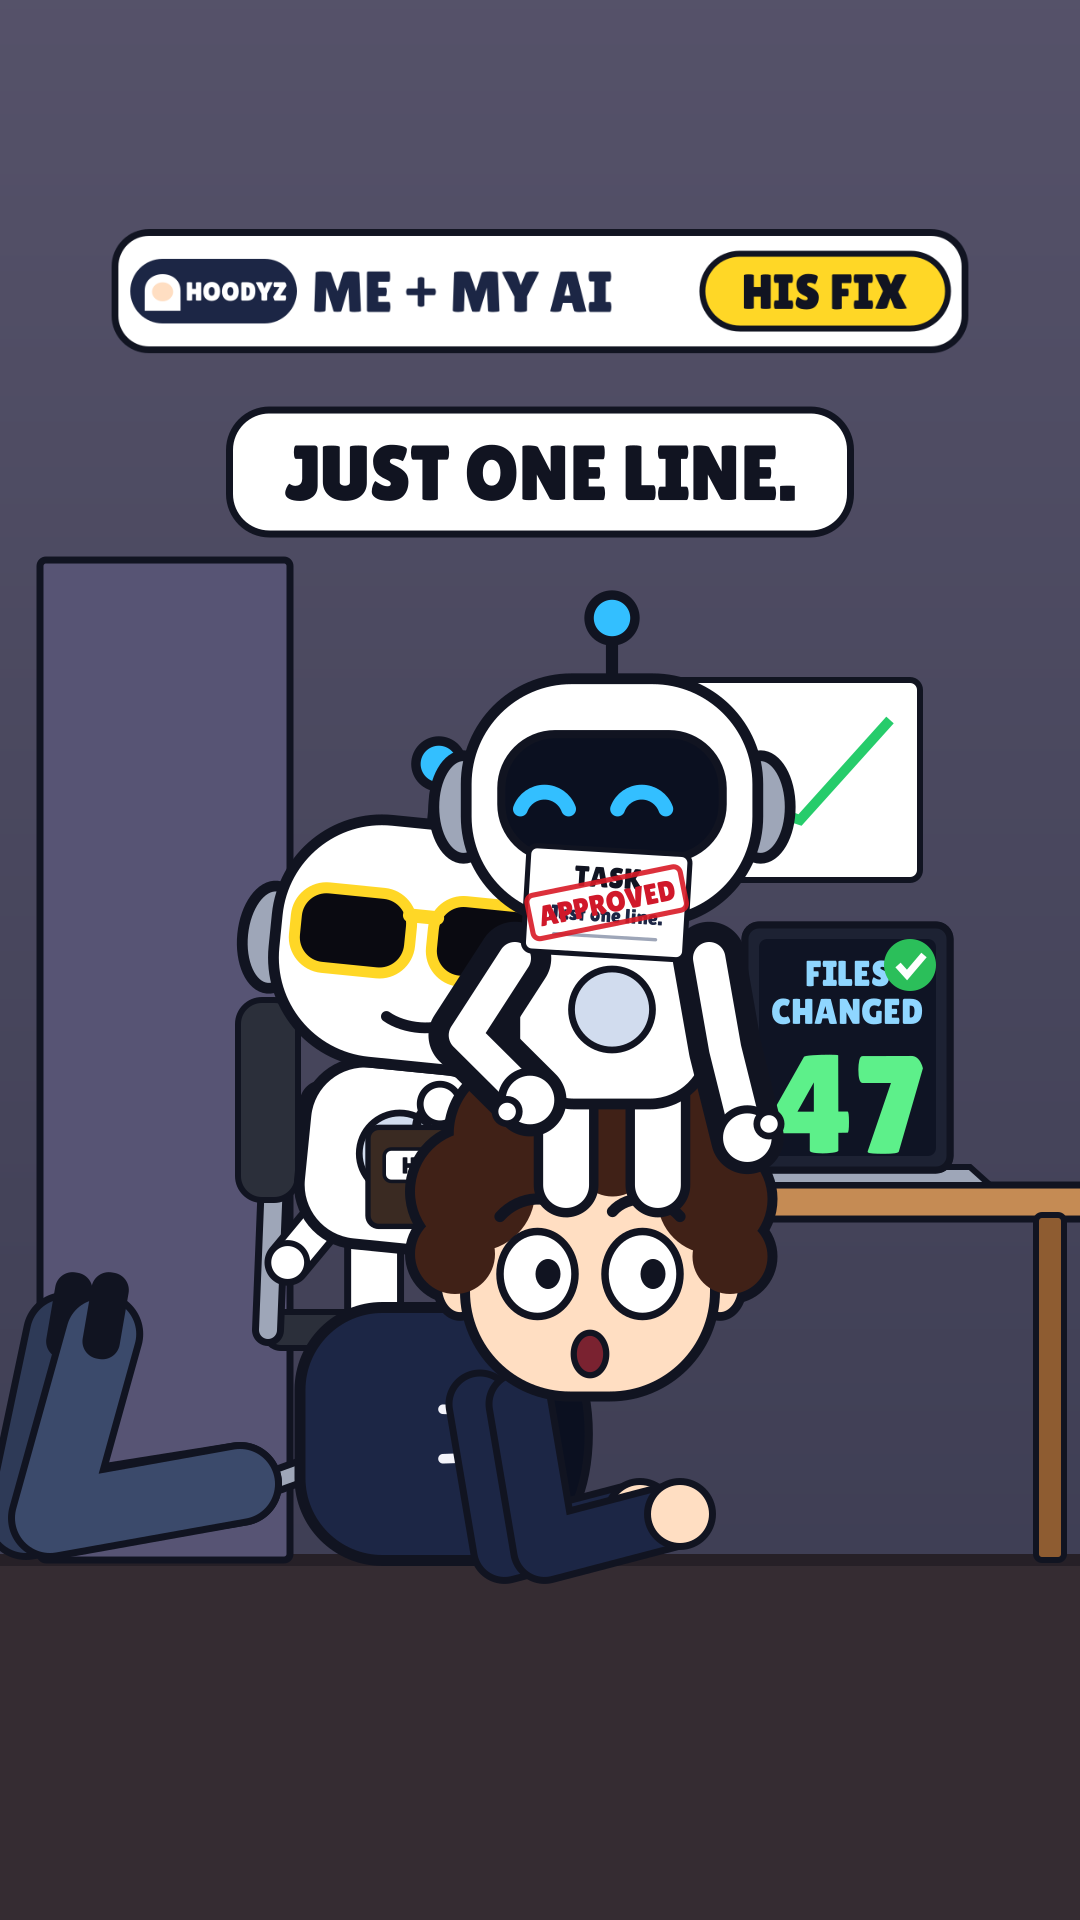
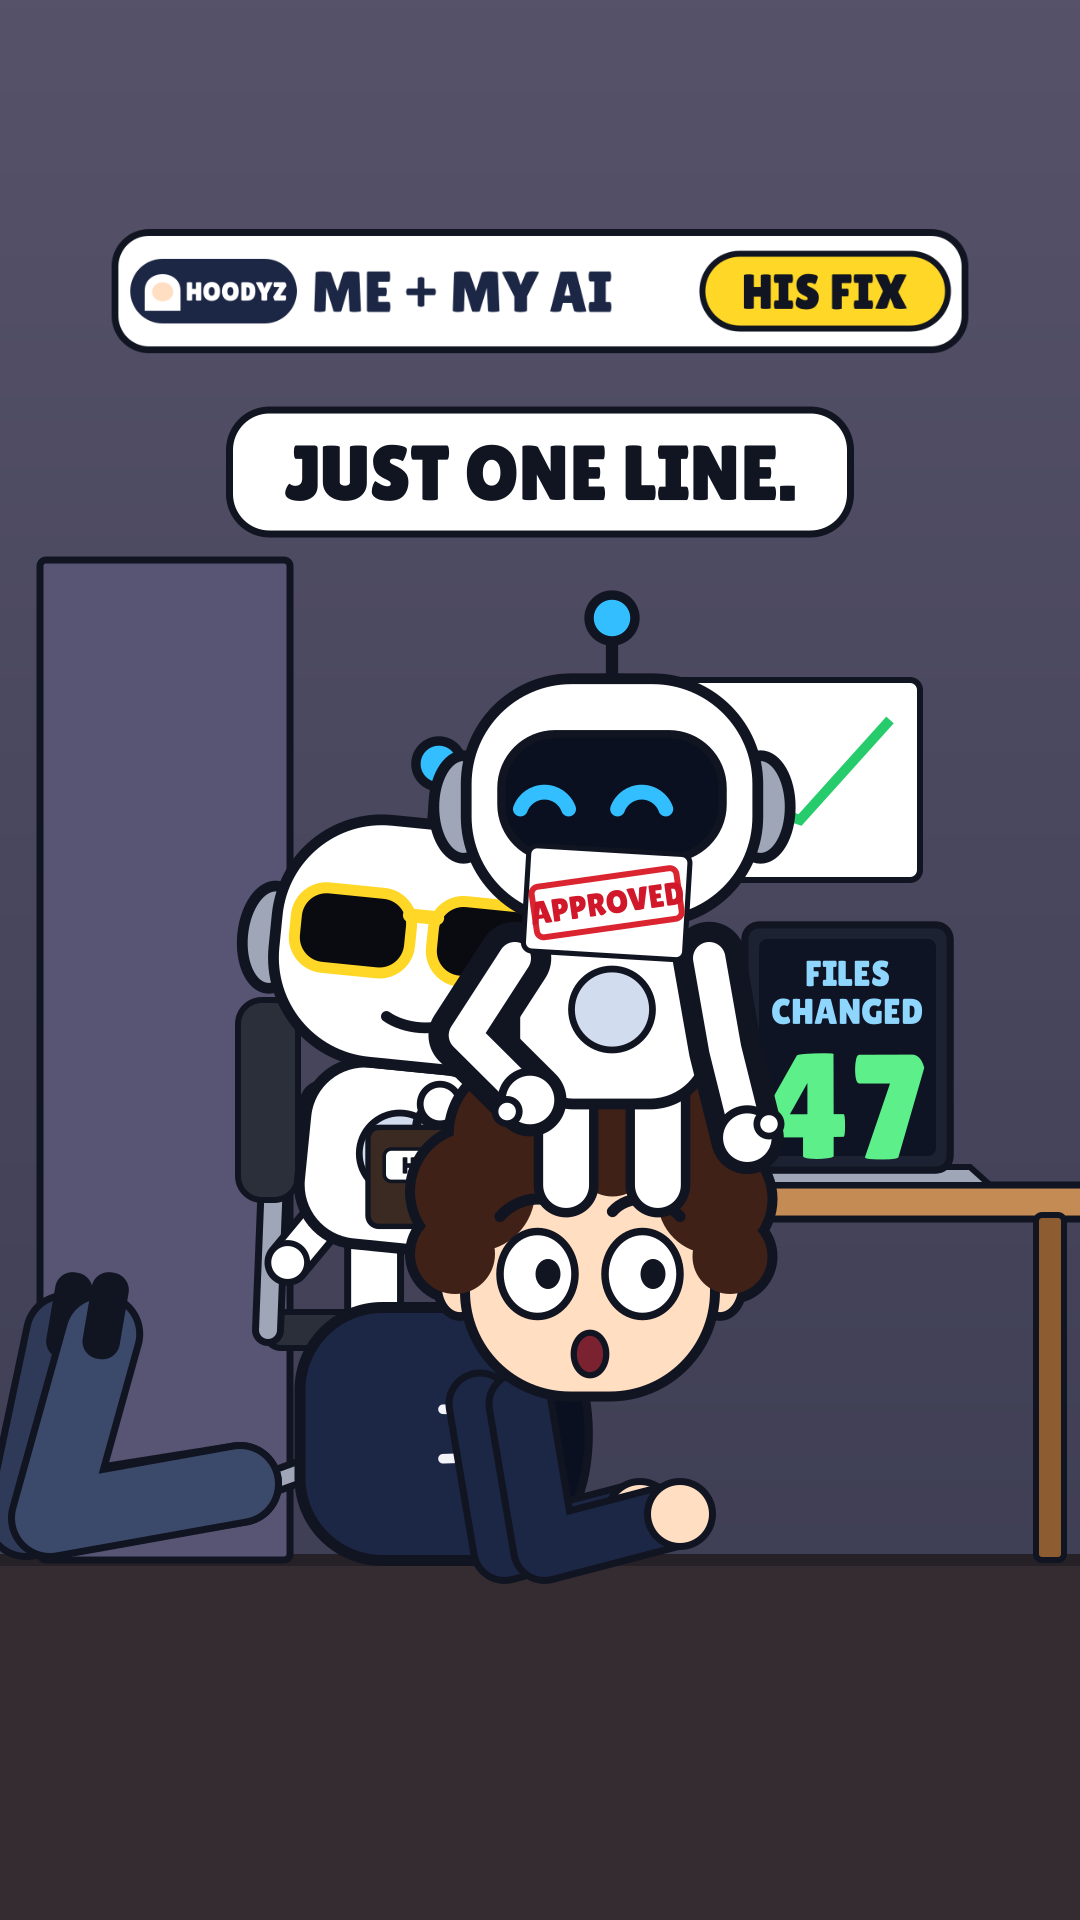
Hoodyz Just One Line: cover audit round 2 (card shows only APPROVED, one tick)
Claude-Session: https://claude.ai/code/session_01ED8DLRS3kXn1pdhXqYBM3Q

Changed region(s): [[0.4889, 0.4375, 0.6417, 0.5], [0.7028, 0.5312, 0.7944, 0.625], [0.825, 0.4688, 0.8861, 0.5312]]

diff --git a/hoodyz/just-one-line/film/cover2.py b/hoodyz/just-one-line/film/cover2.py
@@ -10,9 +10,15 @@ def laptop_big(c, n=None, tick=False, glow=0.0):
     P.rr(c, x0 + 14, y0 + 14, x1 - x0 - 28, y1 - y0 - 28, 8); c.set_source_rgb(*P.hx('0f1424')); c.fill()
     cx = (x0 + x1) / 2
     P.txt(c, 'FILES', cx, y0 + 48, 36, P.hx('8fd6ff'), lw=0); P.txt(c, 'CHANGED', cx, y0 + 86, 36, P.hx('8fd6ff'), lw=0)
-    P.txt(c, str(n), cx, y0 + 178, 140, P.hx('5df08a'), lw=0)
-    P.ell(c, x1 - 40, y0 + 40, 26, 26); c.set_source_rgb(*P.hx('2bbf5a')); c.fill()
-    c.move_to(x1 - 52, y0 + 40); c.line_to(x1 - 43, y0 + 50); c.line_to(x1 - 26, y0 + 30); c.set_source_rgb(1, 1, 1); c.set_line_width(7); c.stroke()
+    P.txt(c, str(n), cx - 4, y0 + 180, 150, P.hx('5df08a'), lw=0)      # (round 2: bigger again, and the small tick is gone: it competed with the chart's)
+_card = P.card
+def card(c, x, y, s=1.0, rot=0.0, stamp=False):                          # round 2: a stamped card shows only APPROVED, not three texts on top of each other
+    if not stamp: return _card(c, x, y, s, rot, stamp)
+    c.save(); c.translate(x, y); c.rotate(rot); c.scale(s, s)
+    P.rr(c, -95, -62, 190, 124, 10); P.fs(c, P.WHITE, 6)
+    c.save(); c.rotate(-.2); P.rr(c, -86, -30, 172, 60, 8); c.set_source_rgba(.85, .1, .15, .95); c.set_line_width(7); c.stroke()
+    P.txt(c, 'APPROVED', 0, 0, 38, P.hx('d0182a'), lw=0); c.restore(); c.restore()
+P.card = card
 _old = P.laptop; _base = _old
 def laptop(c, n=None, tick=False, glow=0.0):
     _base(c, None, False, glow)                                          # the desk and the frame, without the readout

diff --git a/hoodyz/just-one-line/film/POST.md b/hoodyz/just-one-line/film/POST.md
@@ -9,3 +9,4 @@
 **Judge by:** retention to the end, rewatches (the loop), shares. Not likes.
 
 Cover: `cover_v2.png` (`cover2.py`): JUST ONE LINE. as a title over the APPROVED stamp, the 47 bigger, bar 15 % smaller. `cover.png` = v1.
+Cover round 2: stamped card shows only APPROVED, the small tick by FILES removed, the 47 bigger again.
